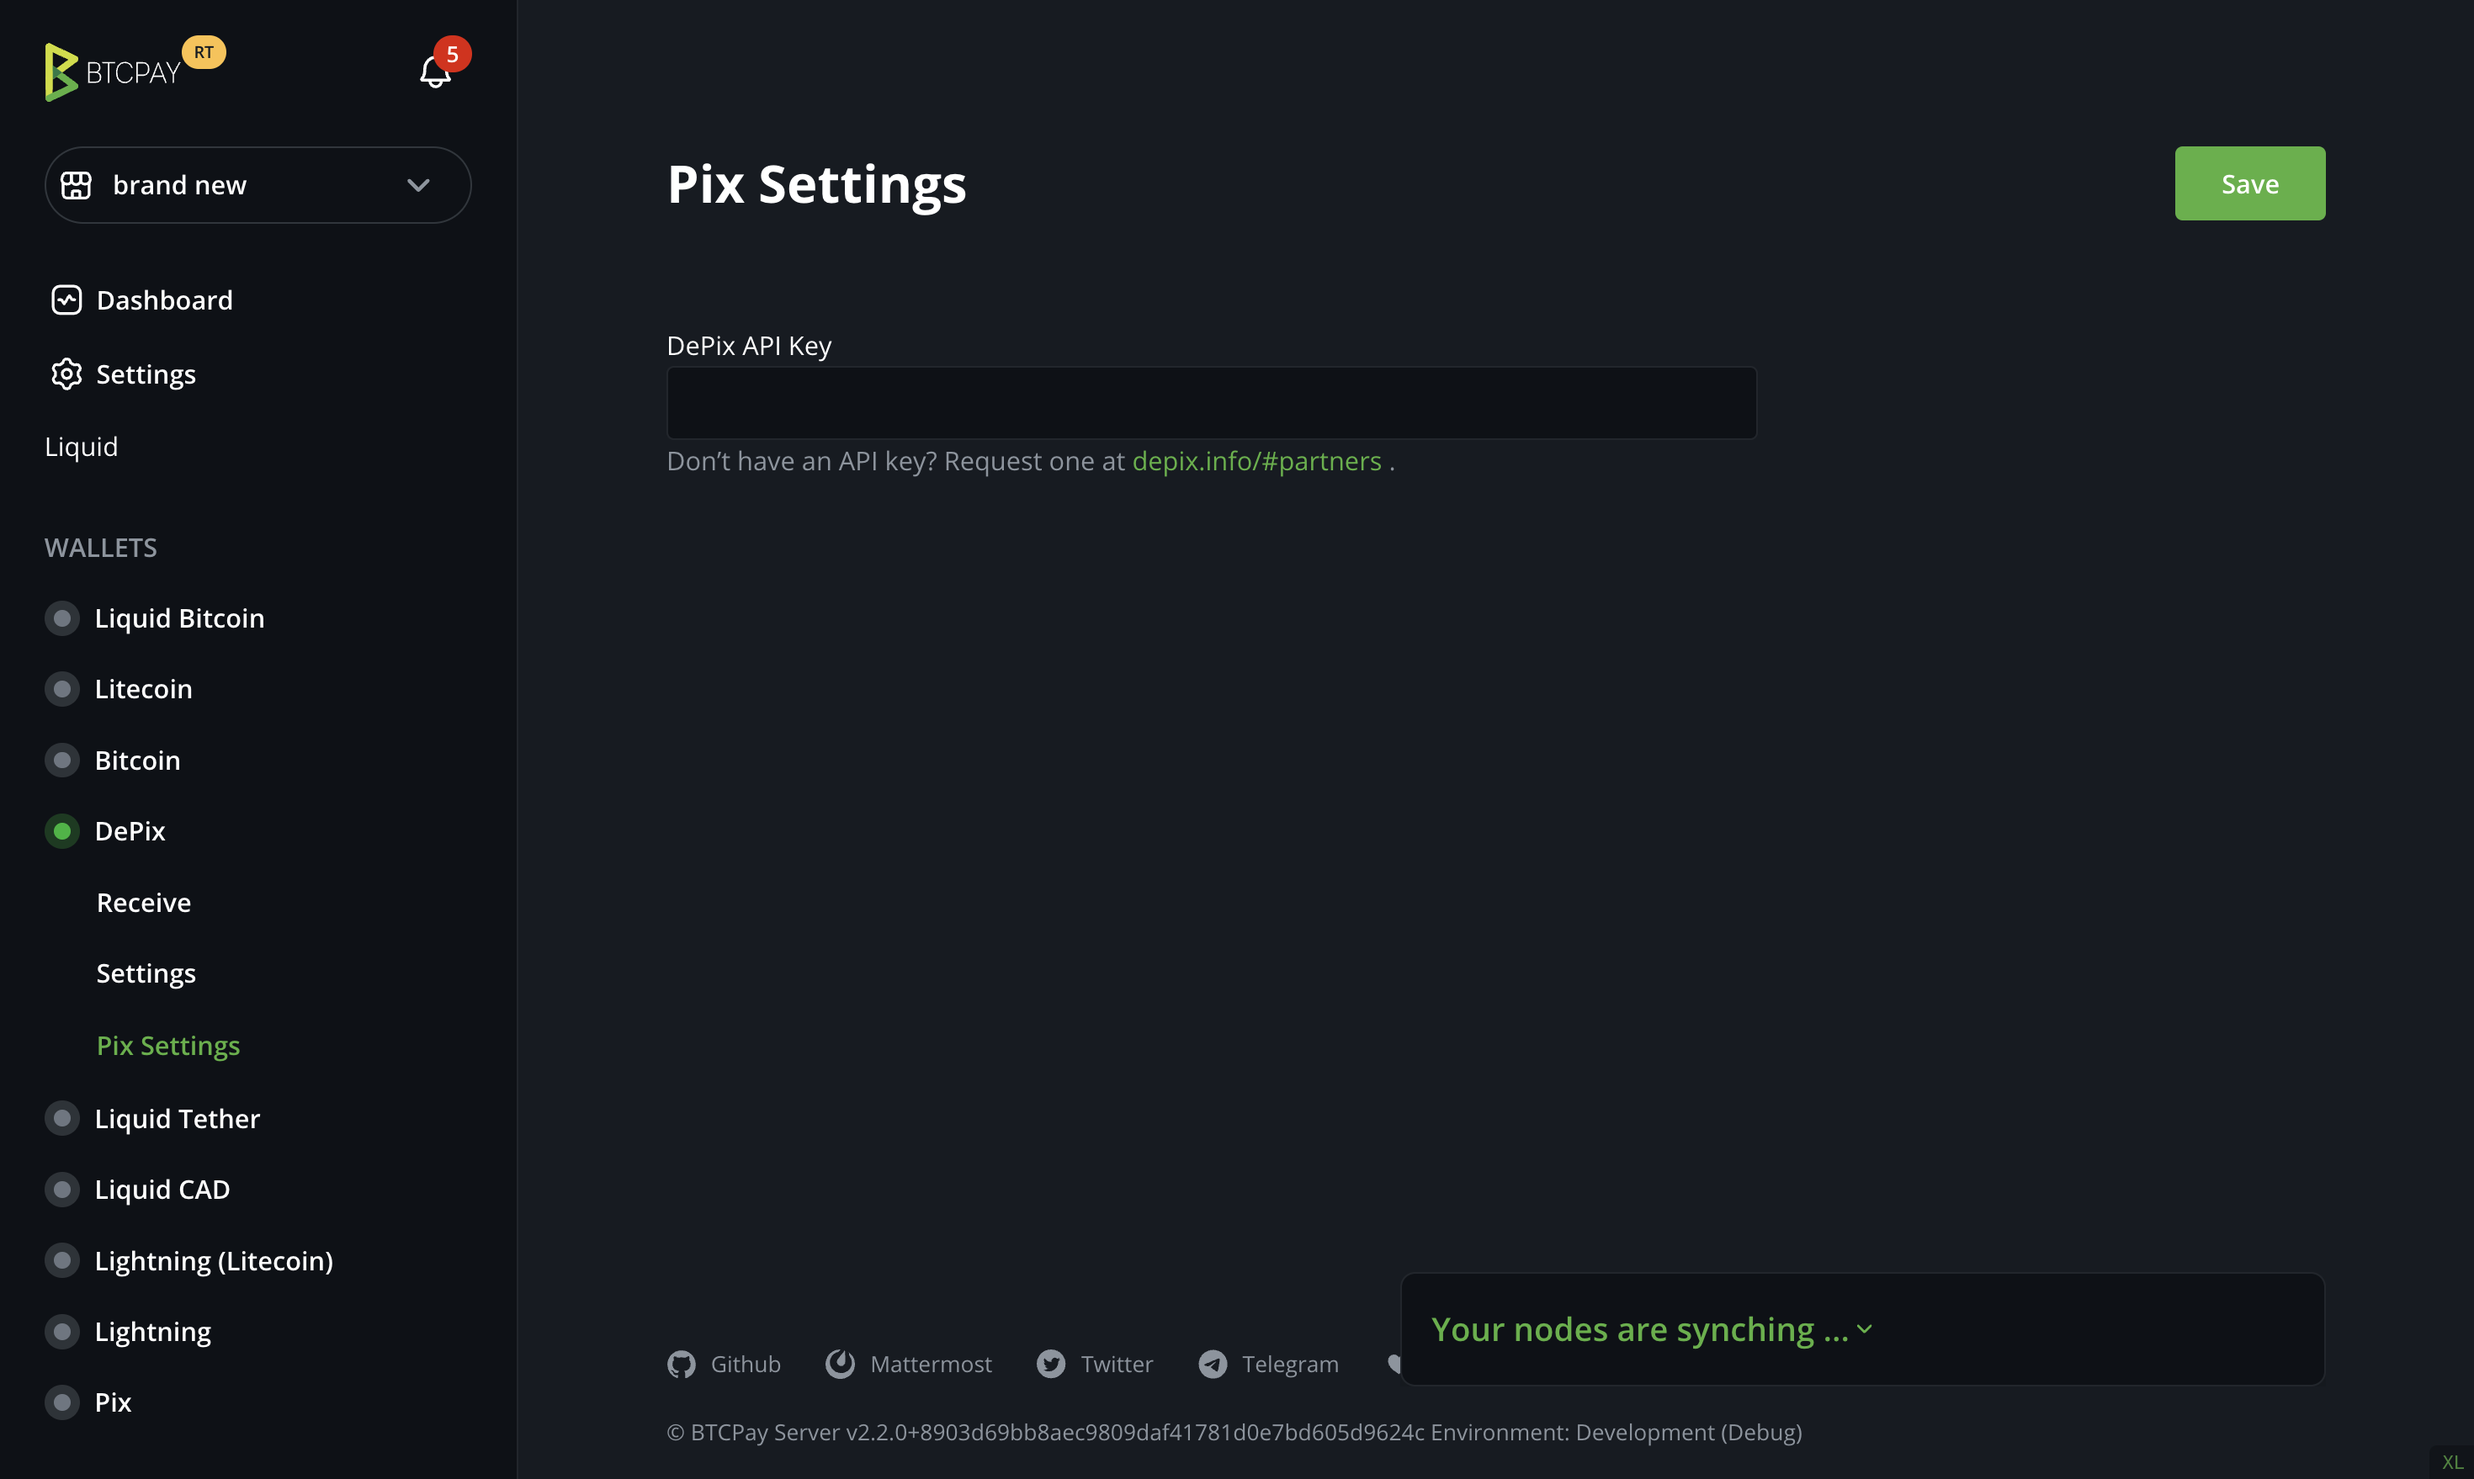
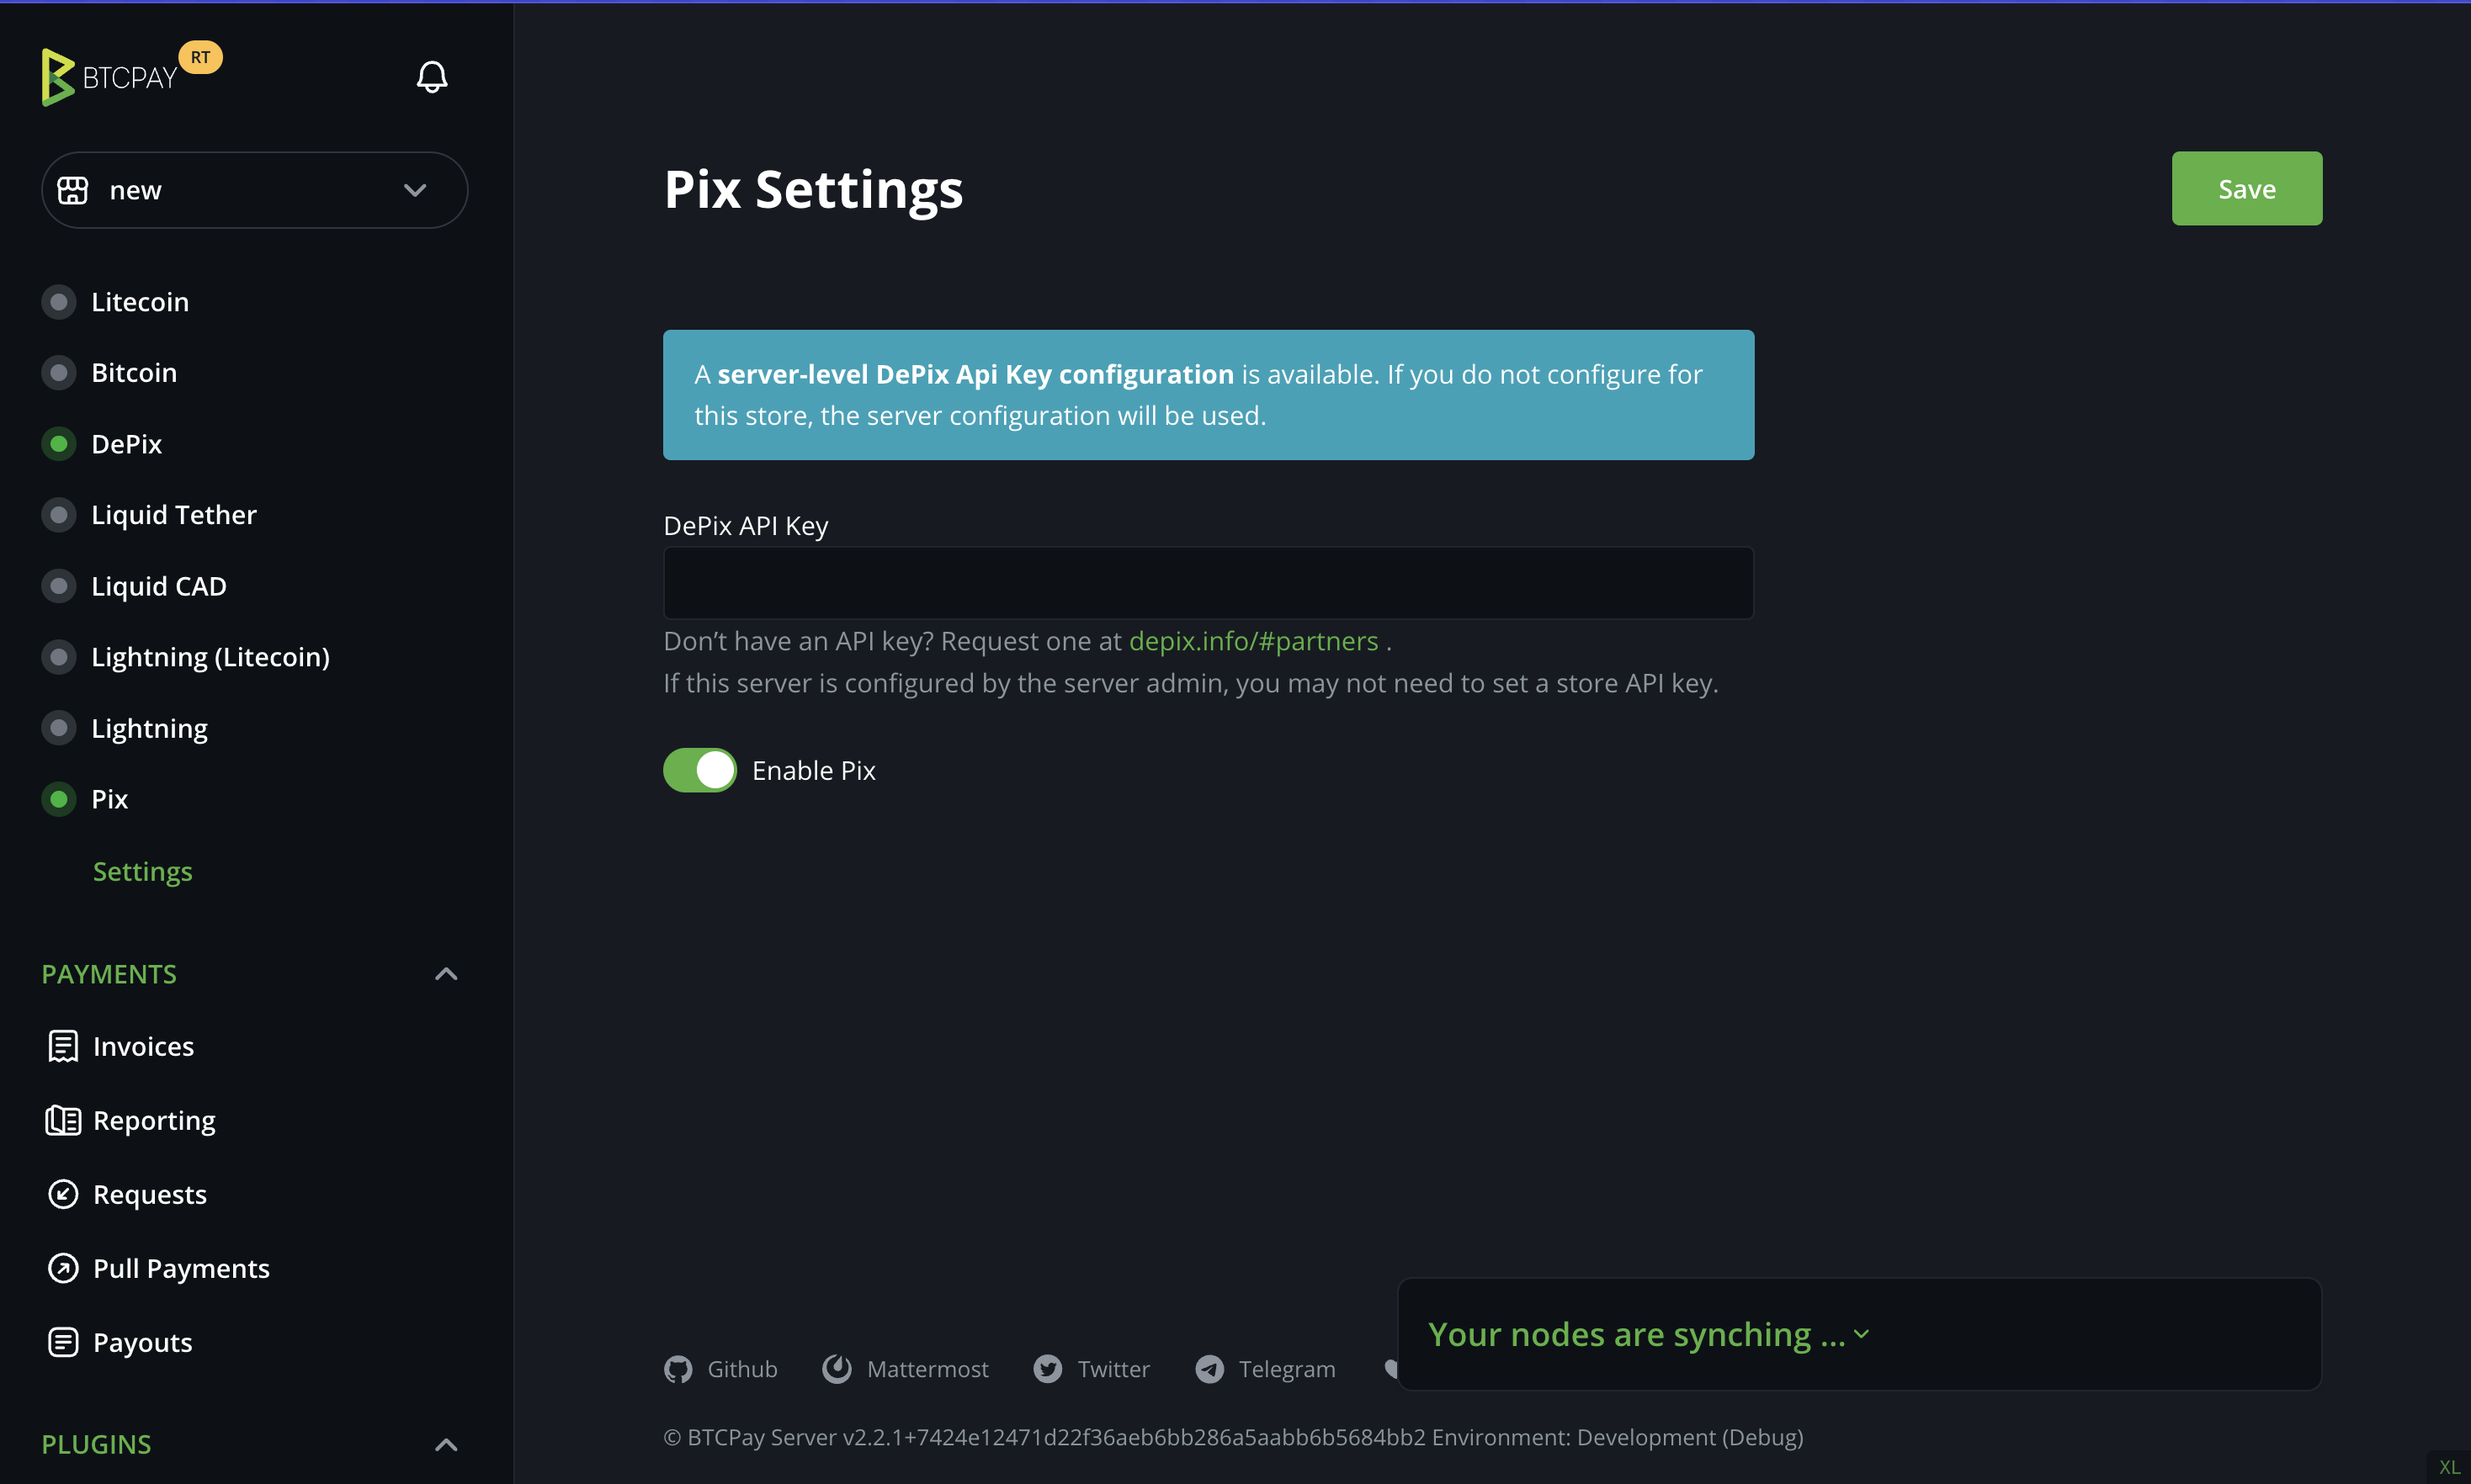
docs: document store vs server pix configuration

diff --git a/README.md b/README.md
@@ -1,6 +1,6 @@
 # DePix Plugin for BTCPay Server
 
-Accept **Pix** payments in your BTCPay Server store and receive funds in **DePix** (a Liquid-based BRL stablecoin). This guide is written for BTCPay store owners and focuses on setup and day‑to‑day use.
+Accept **Pix** payments in your BTCPay Server store and receive funds in **DePix** (a Liquid-based BRL stablecoin). This guide is written for BTCPay store owners and server admins and focuses on setup and day-to-day use.
 
 ---
 
@@ -8,7 +8,7 @@ Accept **Pix** payments in your BTCPay Server store and receive funds in **DePix
 
 * Adds Liquid Network Stablecoin **DePix** as a payment method to your BTCPay store.
 * Adds **Pix** as a payment method to your BTCPay store (via DePix).
-* After you save your DePix API key, Pix is **enabled automatically** and appears on newly created invoices (from **Invoices**) and in your **Point of Sale (POS)** apps.
+* After you save a valid DePix configuration, Pix can be enabled and appears on newly created invoices (from **Invoices**) and in your **Point of Sale (POS)** apps.
 * Provides a **Pix Transactions** page to monitor deposits and statuses.
 * Funds settle to your **DePix (Liquid) wallet**.
 
@@ -19,7 +19,7 @@ Accept **Pix** payments in your BTCPay Server store and receive funds in **DePix
 ## Requirements
 
 * BTCPay Server 2.x
-* A **DePix partner API key** — request at [https://www.depix.info/#partners](https://www.depix.info/#partners)
+* A **DePix partner API key** — request at https://www.depix.info/#partners
 
 ---
 
@@ -30,42 +30,95 @@ Accept **Pix** payments in your BTCPay Server store and receive funds in **DePix
 
 ![DePix plugin installed](docs/img/depix-plugin-installed.png)
 
-> When installed, the DePix (Liquid) asset is prepared for your store. You only need to create your DePix wallet, go to Pix Settings and enter your API key to enable Pix payments.
+> When installed, the DePix (Liquid) asset is prepared for your store. You only need to create your DePix wallet and configure DePix (store-level or server-level) to enable Pix payments.
 
 ---
 
-## Pix setup (3 quick steps)
+## Create your DePix wallet (choose one)
 
-1. **Create your DePix wallet (choose one)**
-   - **Option A — External (Aqua via SamRock Plugin, xpub import)**
-      1) In BTCPay: Plugins → Manage Plugins → install **SamRock**; open SamRock and **scan** the pairing QR with the **Aqua** app.
-      2) **Wallets** → **Liquid Bitcoin** → **Settings** → **Derivation Scheme** → **copy the LBTC xpub**.
-      3) **Wallets → DePix → Connect an existing wallet → Enter extended public key** → **paste the LBTC xpub** → Continue.  
-         *Result:* BTCPay derives Liquid/DePix receiving addresses from this xpub, so **deposits go directly to your Aqua wallet**. *(Only the **public** key is used; no private keys leave Aqua.)*
+### Option A — External (Aqua via SamRock Plugin, xpub import)
 
-   - **Option B — BTCPay Hot Wallet**
-      1) **Wallets → DePix → Create new wallet → Hot wallet**.  
-         To spend from your own Elements/Liquid node later, import the generated keys using **Liquid+** and `elements-cli` (see **Balance and spending DePix**).
+1) In BTCPay: Plugins → Manage Plugins → install **SamRock**; open SamRock and **scan** the pairing QR with the **Aqua** app.
+2) **Wallets** → **Liquid Bitcoin** → **Settings** → **Derivation Scheme** → **copy the LBTC xpub**.
+3) **Wallets → DePix → Connect an existing wallet → Enter extended public key** → paste the LBTC xpub → Continue.
 
-2. **Enter your API key**
-   Go to **Wallets → DePix → Pix Settings** and paste your **DePix API key**. If you don’t have one yet, request it at [https://www.depix.info/#partners](https://www.depix.info/#partners). Click **Save**.
+Result: BTCPay derives Liquid/DePix receiving addresses from this xpub, so **deposits go directly to your Aqua wallet**.  
+(Only the **public** key is used; no private keys leave Aqua.)
 
-   ![Pix Settings](docs/img/pix-settings.png)
+### Option B — BTCPay Hot Wallet
 
-3. **Register the webhook** (optional but recommended)
-   After saving the API key, the **Webhook** section appears:
+1) **Wallets → DePix → Create new wallet → Hot wallet**.
+2) To spend from your own Elements/Liquid node later, import the generated keys using **Liquid+** and `elements-cli` (see **Balance and spending DePix**).
 
-   * Copy the Telegram Command with **Webhook URL** and the **one‑time secret** shown on the page.
-   * In the DePix Telegram bot (Eulen), register:
+---
 
-     ```
-     /registerwebhook deposit <WEBHOOK_URL> <SECRET>
-     ```
+## Configuration scopes (Store vs Server)
 
-   This enables **real‑time updates** for paid invoices.
+DePix can be configured in one of two places:
 
-4. **Done**
-   The **Pix** payment method is now **configured automatically** and available on invoices and POS.
+### Store configuration (recommended for most users)
+Path: **Wallets → Pix → Settings**
+
+Use this when:
+- You want store-specific behavior (fee/whitelist) and full control at store level, or
+- Your server admin did not configure DePix globally.
+
+### Server configuration (optional, for server admins)
+Path: **Server Settings → Pix (Pix Server Settings)**
+
+Use this when:
+- You run a BTCPay Server instance and want a **default configuration** for many stores with same API Key and Webhook.
+
+### Precedence (what gets used)
+- If the store has a complete **store configuration** (API key + webhook secret), **store config is used**.
+- Otherwise, if the server has a complete **server configuration**, **server config is used**.
+- If neither exists, Pix cannot be enabled.
+
+> When a store is using **server configuration**, the store does not manage webhook secrets. Webhook registration is handled by the server admin.
+
+---
+
+## Store setup (Wallets → Pix → Settings)
+
+1. Go to **Wallets → Pix → Settings**
+2. Paste your **DePix API key** and click **Save**
+3. (Optional) Configure store behavior (only applies when the store has its own API key):
+   - **Pass fee to customer**
+   - **Whitelist mode**
+
+![Pix Settings](docs/img/pix-settings.png)
+
+---
+
+## Server-wide setup (Server Settings → Pix)
+
+This is for BTCPay Server admins who want to configure DePix once and let stores inherit it.
+
+1. Go to **Server Settings → Pix (Pix Server Settings)**
+2. Paste the **server DePix API key** and click **Save**
+3. Configure defaults for stores that rely on server config:
+   - **Pass fee to customer**
+   - **Whitelist mode**
+
+![Pix Server Settings](docs/img/pix-server-settings.png)
+
+---
+
+## Webhook registration (same flow for Store or Server)
+
+After you click **Save** (either in **store settings** or **server settings**), the page will show:
+
+- **Webhook URL**
+- **One-time secret**
+- A ready-to-copy **Telegram command**
+
+**Do this immediately:** copy the Telegram command **before refreshing or leaving the page**.  
+The secret is **one-time view**. If you miss it, you must **Regenerate secret** and click **Save** again.
+
+In the DePix Telegram bot (Eulen), run the command exactly as shown on the page.
+
+Notes:
+> Stores using server configuration do not have access to the server secret. The server admin should register the webhook.
 
 ---
 
@@ -74,13 +127,10 @@ Accept **Pix** payments in your BTCPay Server store and receive funds in **DePix
 * **Invoices**: create an invoice as usual; customers will see **Pix** as a payment method.
 * **POS**: generate charges from your Point of Sale; Pix is available.
 
-  ![Pix Invoice](docs/img/pix-invoice.png)
-
+![Pix Invoice](docs/img/pix-invoice.png)
 
 * **Transactions**: go to **Wallets → Pix** to track Pix deposits (status, ID, amount, time, etc.).
-* **DePix Balance**: go to **Wallets → DePix** to track the received DePix converted from successful Pix Transactions
-
-> Tip: if you lose the webhook secret, check **Regenerate secret** on the settings page and save. A new one‑time secret will be shown so you can re‑register it in the bot.
+* **DePix Balance**: go to **Wallets → DePix** to track the received DePix converted from successful Pix transactions.
 
 ---
 
@@ -88,8 +138,13 @@ Accept **Pix** payments in your BTCPay Server store and receive funds in **DePix
 
 After a Pix payment, funds settle to your **DePix (Liquid) wallet**.
 
-To **spend/transfer** your DePix:
+### Which setup are you using?
 
+- **SamRock + Aqua (xpub)**: funds go to your **Aqua wallet**. Spend them normally from Aqua — you **do not** need Liquid+ or `elements-cli`.
+- **BTCPay Hot Wallet**: follow the steps below to spend via your **Elements/Liquid node** (Liquid+).
+
+---
+### Spend DePix from a BTCPay Hot Wallet (Liquid+ + elements-cli)
 1. Install the **Liquid+** plugin in BTCPay Server.
 2. Click on Liquid at the sidebar under the Store Settings.
 3. Use Liquid+ to run the key imports on your Elements/Liquid node:
@@ -135,7 +190,7 @@ At [https://www.depix.info/#partners](https://www.depix.info/#partners)
 No, but it’s **recommended** so you receive real‑time payment updates.
 
 **Pix doesn’t appear as a payment method. What should I check?**
-Make sure you’ve **saved** your API key in the DePix store settings. After saving, Pix is enabled automatically.
+Make sure DePix is configured either in Wallets → Pix → Settings (store) or by the server admin in Server Settings → DePix (server). Once a complete configuration exists, Pix can be enabled and will appear on invoices/POS.
 
 ---
 
